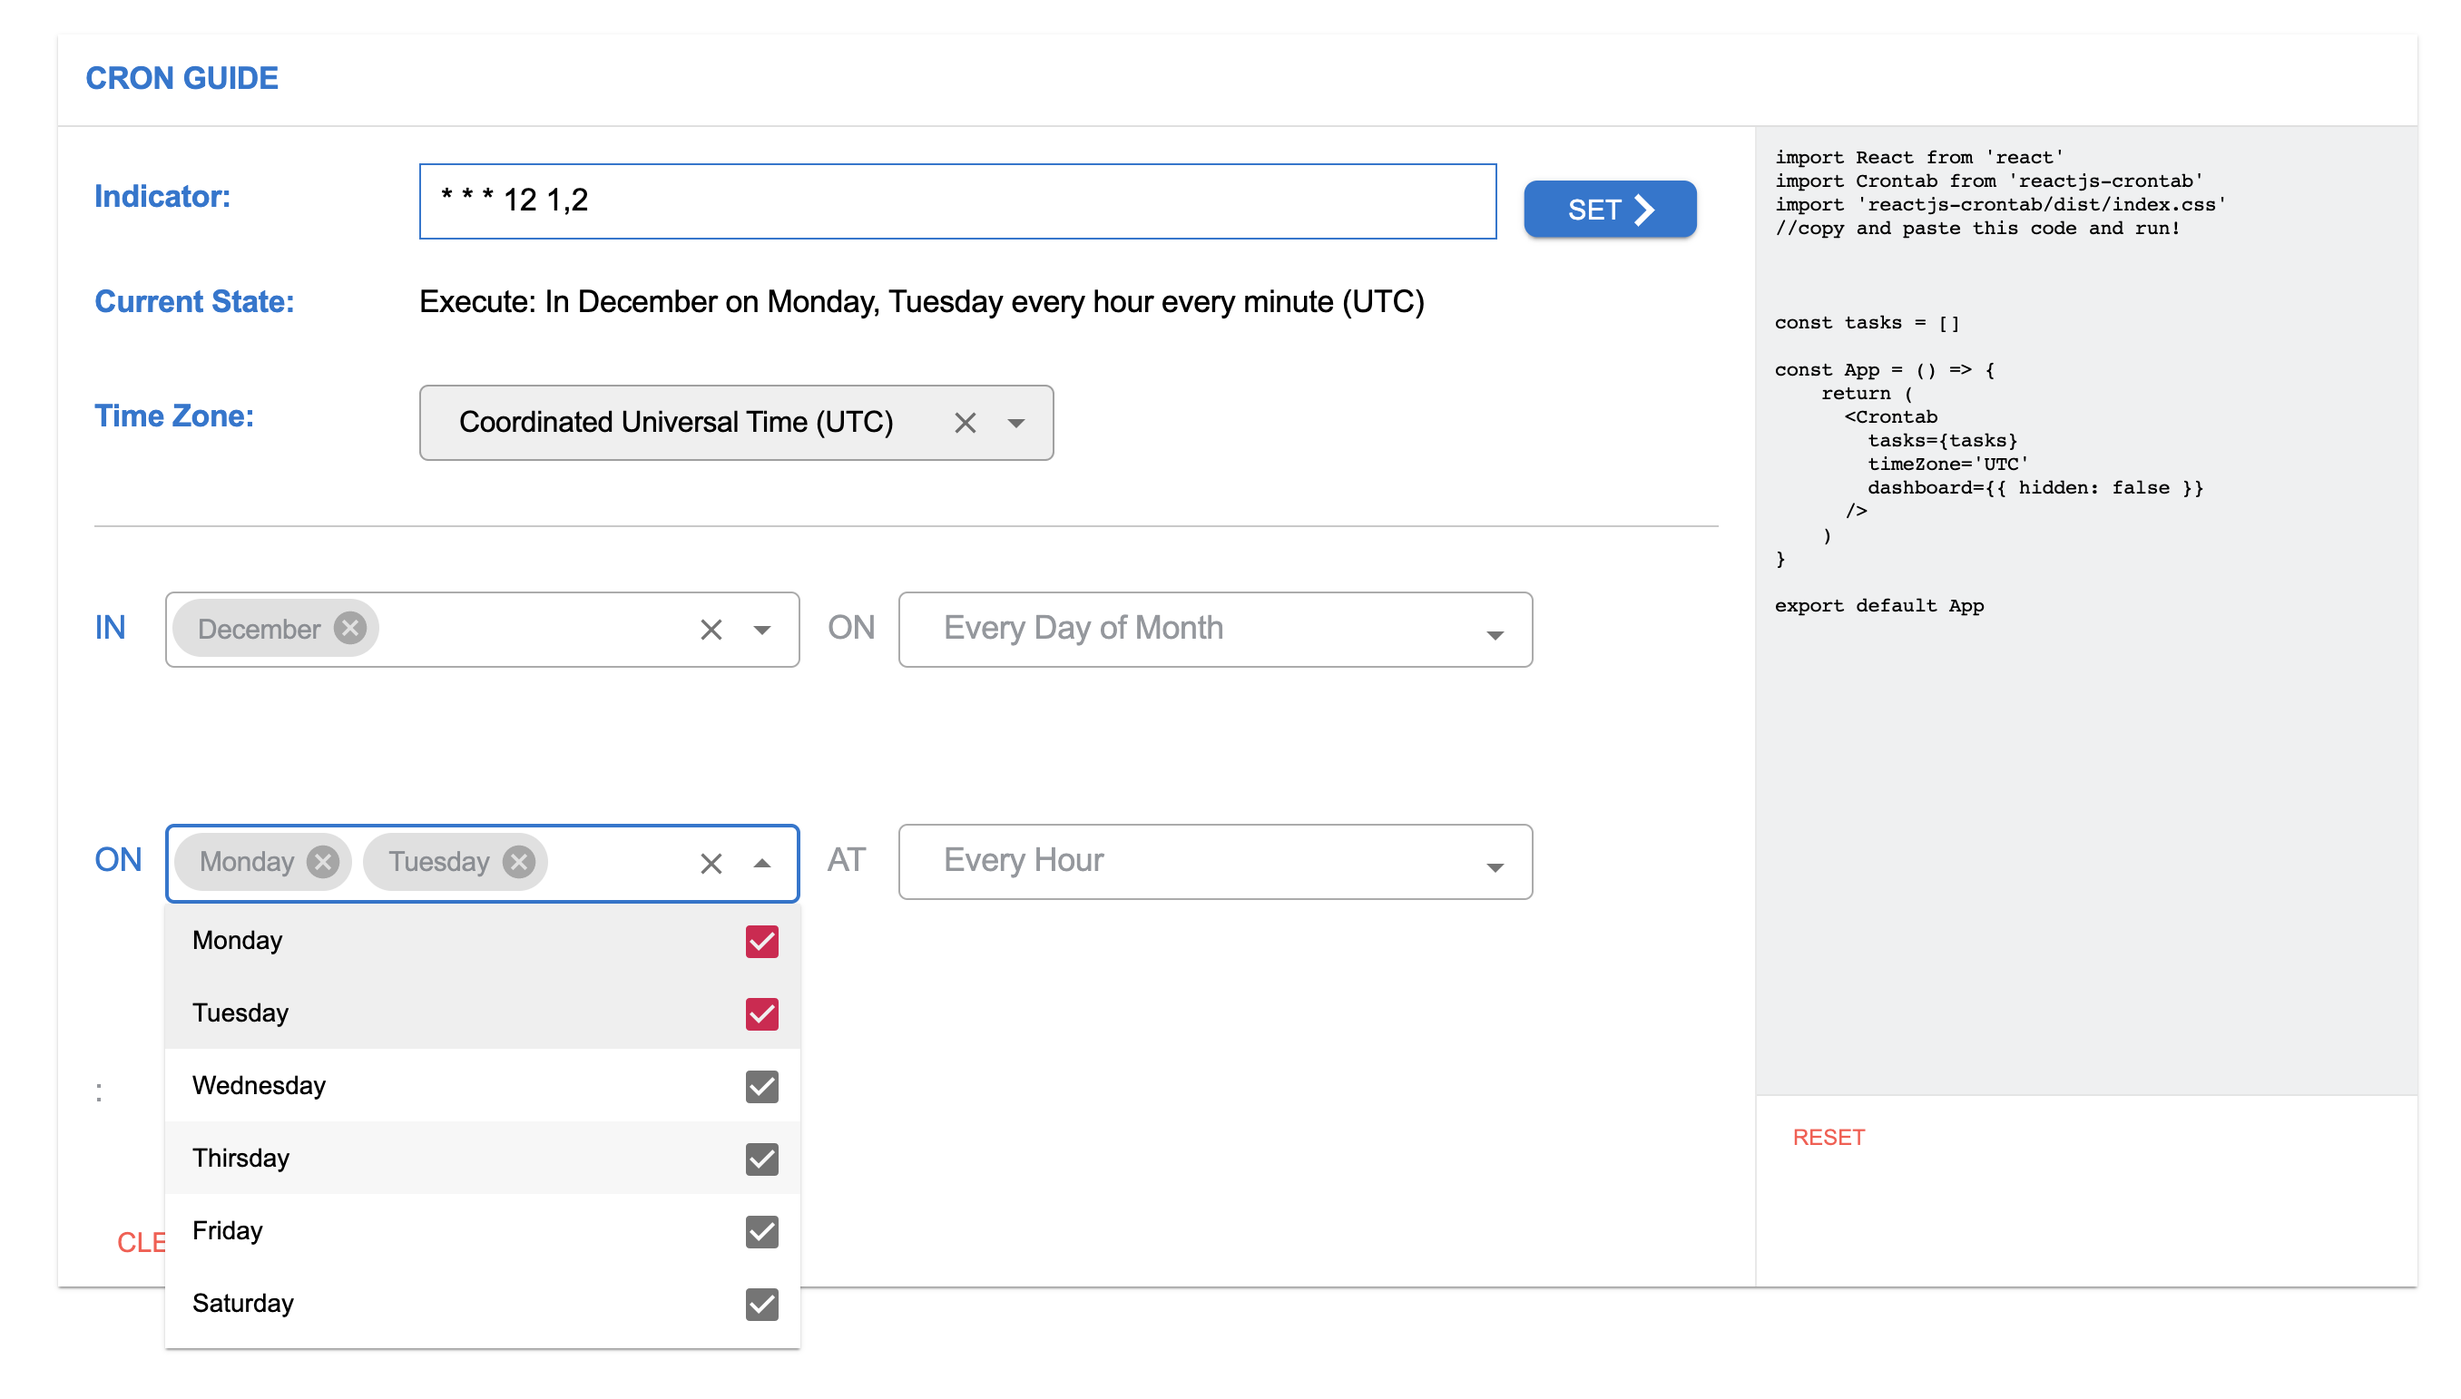
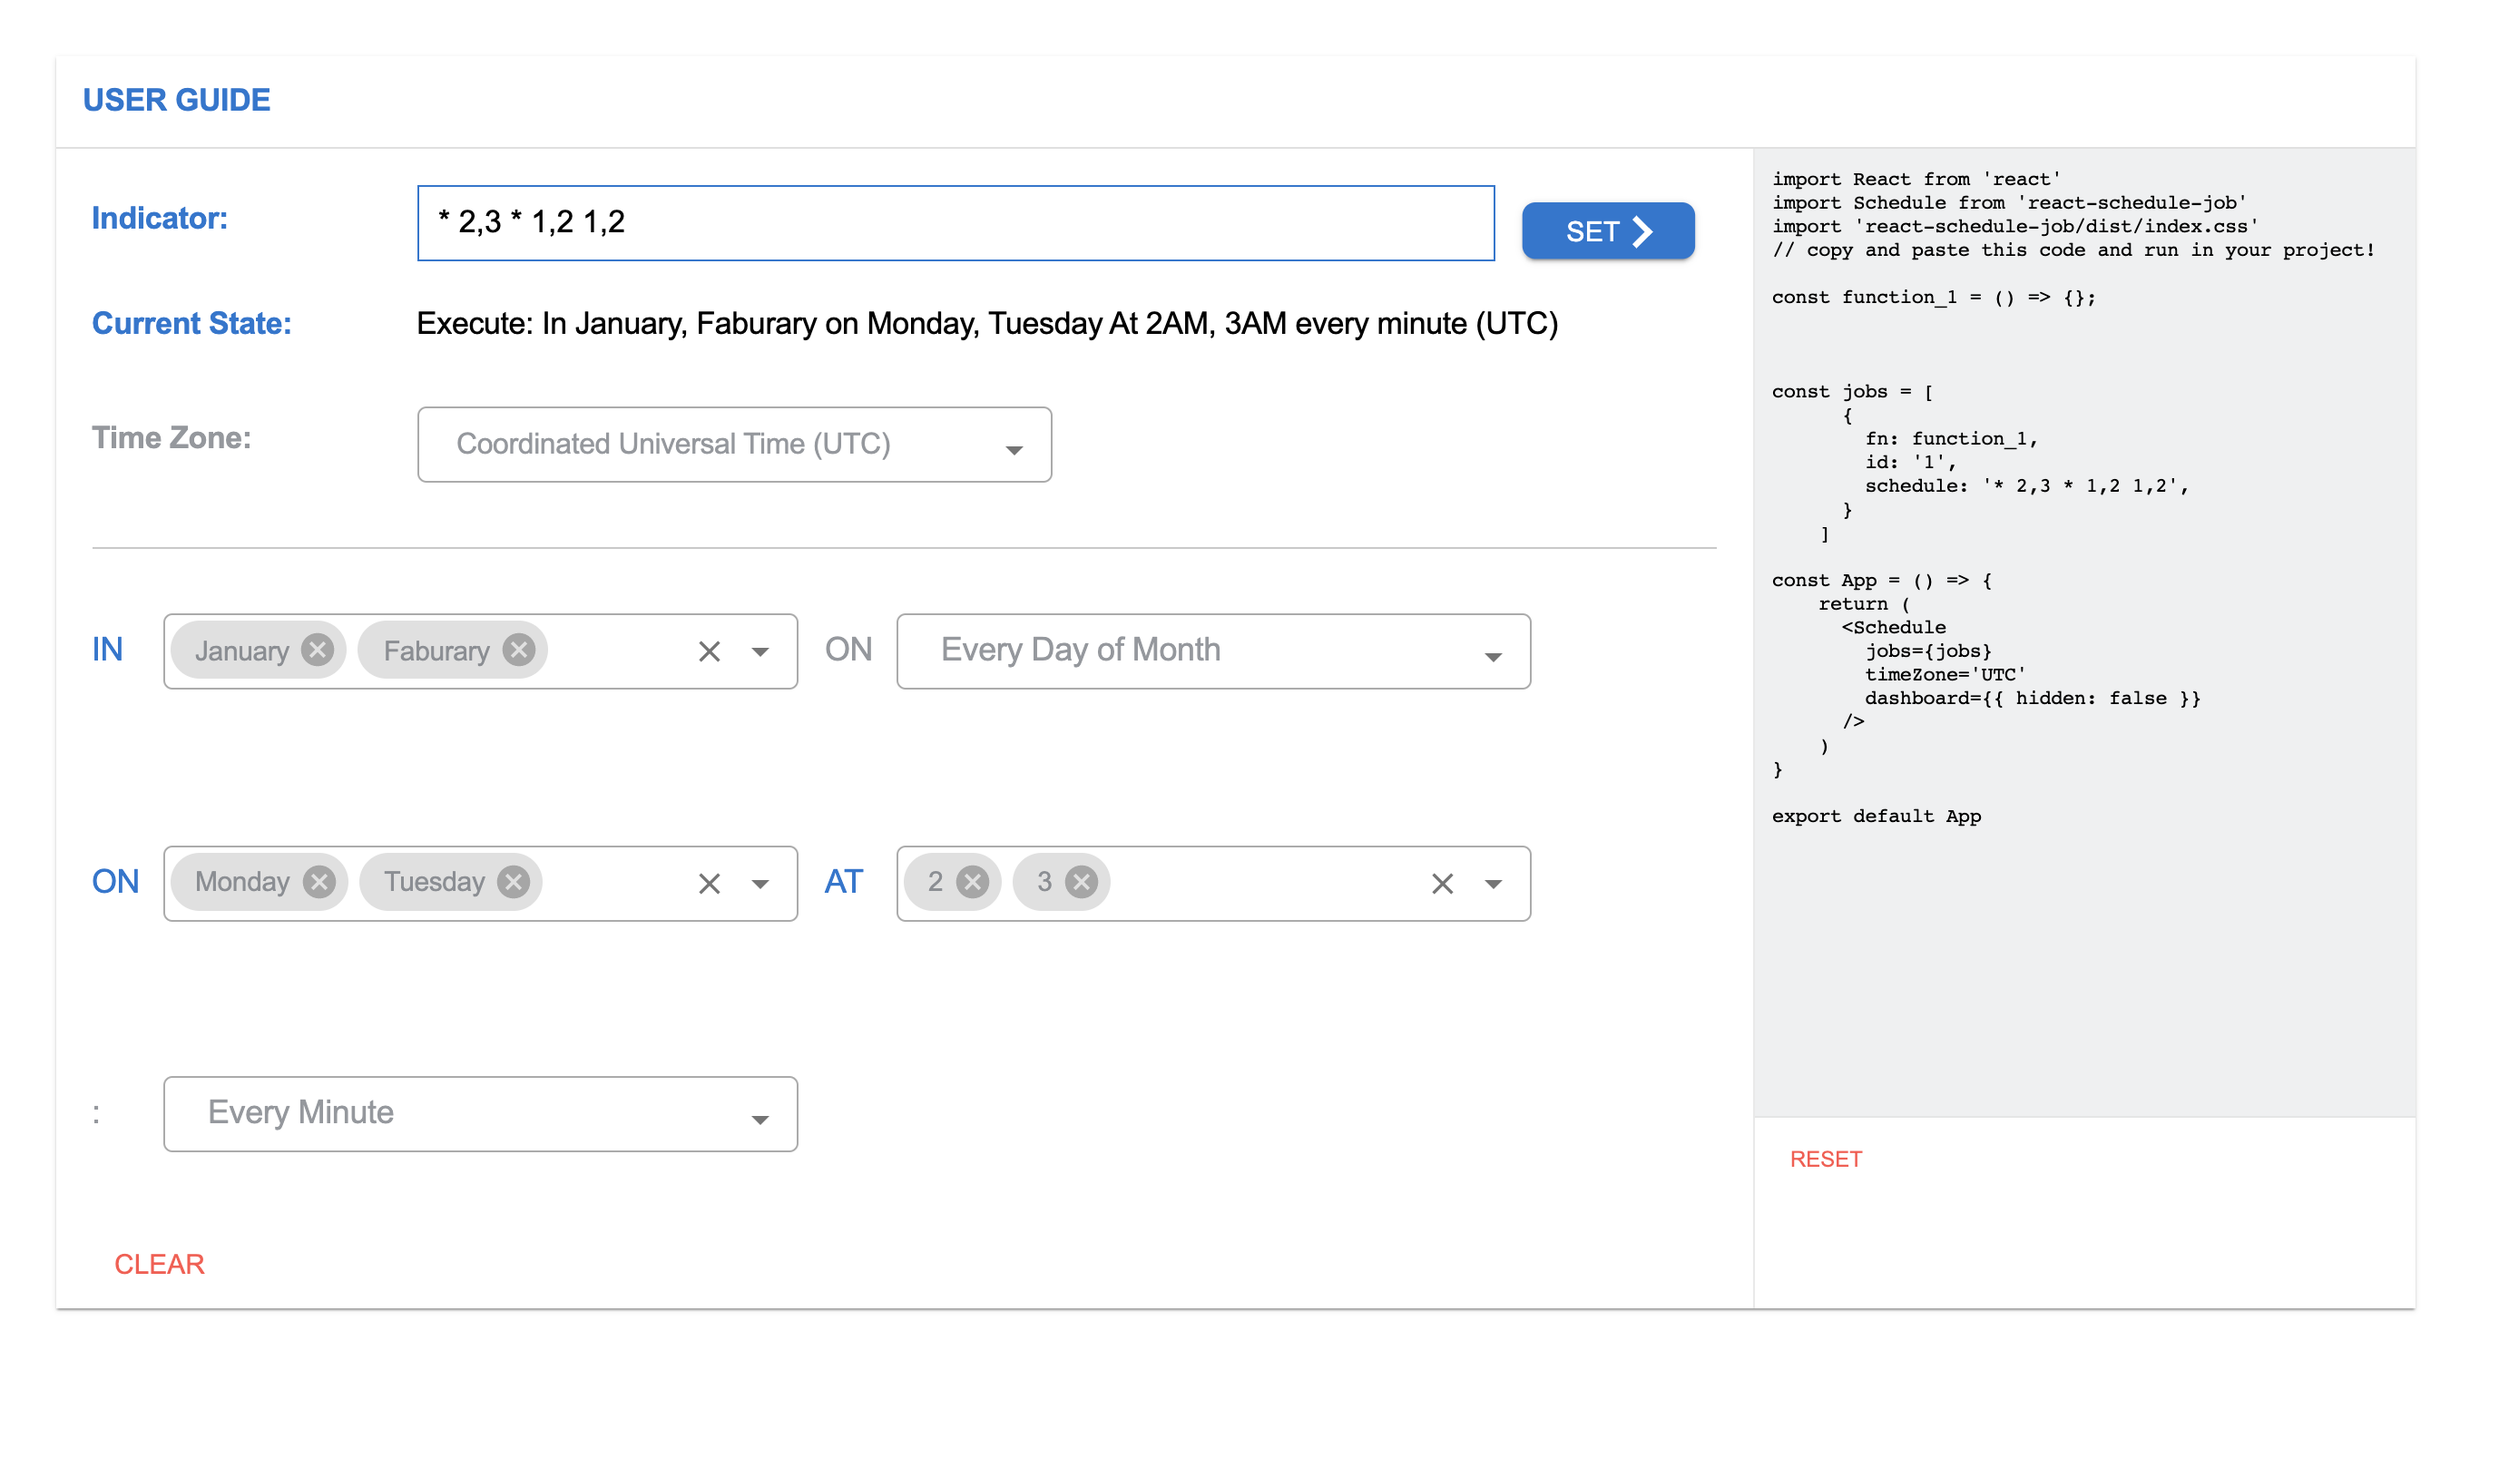
docs update

diff --git a/example/src/App.js b/example/src/App.js
@@ -1,45 +1,52 @@
 import React from 'react'
 import Schedule from 'react-schedule-job'
 import 'react-schedule-job/dist/index.css'
+//copy and paste this code and run!
+    
+const function_1 = () => {
+  console.log("called ! ")
+};
+  
+const function_2 = () => {
+  console.log("called ! ")
 
-const sayHello = () => {
-  console.log('Hello')
-}
+};
+  
+const function_3 = () => {
+  console.log("called ! 3")
 
-const RequestSomething = () => {
-  console.log('Api request has been sent')
-}
+};
+  
 
-// these are the functions which will run according to the schedule
-
+    
 const jobs = [
-  {
-    fn: sayHello,
-    id: '1',
-    schedule: '* * * * *',
-    // Execute every minutes
-    name: 'Say Hello'
-  },
-  {
-    fn: RequestSomething,
-    id: '3',
-    schedule: '* 16 * 11,12 *',
-    // Execute In November, December At 3PM and 7PM every minute
-    name: 'Request Something'
-  }
-]
-
+      {
+        fn: function_1,
+        id: '1',
+        schedule: '* * * * *',
+      }
+    ,
+      {
+        fn: function_2,
+        id: '2',
+        schedule: '* * * * *',
+      }
+    ,
+      {
+        fn: function_3,
+        id: '3',
+        schedule: '* * * 3,5 *',
+      }
+    ]
+    
 const App = () => {
-  return (
-    <Schedule
-      jobs={jobs}
-      timeZone='UTC'
-      // timezone is UTC timezone.
-      dashboard={{
-        hidden: false
-        // if true, dashboard is hidden
-      }}
-    />
-  )
+    return (
+      <Schedule 
+        jobs={jobs}
+        timeZone='UTC'
+        dashboard={{ hidden: false }}
+      />
+    )
 }
+    
 export default App

diff --git a/src/index.js b/src/index.js
@@ -30,7 +30,6 @@ Cron.propTypes = {
       id: PropTypes.string.isRequired,
       schedule: PropTypes.string.isRequired,
       name: PropTypes.string,
-      description: PropTypes.string
     })
   ),
   dashboard: PropTypes.shape({

diff --git a/README.md b/README.md
@@ -4,9 +4,9 @@ React Schedule Job is a simple cron-like job scheduler for Reactjs. This module 
 
 [![NPM](https://img.shields.io/npm/v/react-schedule-job.svg)](https://www.npmjs.com/package/react-schedule-job) [![JavaScript Style Guide](https://img.shields.io/badge/code_style-standard-brightgreen.svg)](https://standardjs.com)
 
-<!-- **User Guide** at [https://d180vcwahe2y6s.cloudfront.net/build/index.html](https://d180vcwahe2y6s.cloudfront.net/index.html)
+**User Guide** at [https://d3ulnom5ytgqb7.cloudfront.net/index.html](https://d3ulnom5ytgqb7.cloudfront.net/index.html)
 
-![Crontab Guide Demo](https://raw.githubusercontent.com/shawnscoding/reactjs-crontab/HEAD/assets/cronGuide.png) -->
+![Crontab Guide Demo](https://raw.githubusercontent.com/shawnscoding/reactjs-crontab/HEAD/assets/cronGuide.png)
 
 ## Getting Started
 
@@ -16,7 +16,7 @@ npm install --save react-schedule-job
 
 ## Usage 1
 
-To schedule component, this code would be useful
+To schedule component, this would be useful
 
 ```jsx
 import React from 'react'
@@ -76,7 +76,7 @@ Copying and pasting above code will render `<HelloMsg /> `
 
 ## Usage 2
 
-To schedule function, this code would be useful
+To schedule function, this would be useful
 
 ```jsx
 import React from 'react'
@@ -195,8 +195,7 @@ Schedule Props {
       fn: yourFn,
       id: '1',
       schedule: '* 11 18 10,13 *',
-      name: 'logUserOut',
-      description: 'Send API'
+      name: 'logUserOut'
     }
   ],
   timeZone: "UTC", "local" or "YOUR PREFERRED TIMEZONE",
@@ -214,8 +213,7 @@ Schedule.propTypes = {
       fn: PropTypes.func.isRequired,
       id: PropTypes.string.isRequired,
       schedule: PropTypes.string.isRequired,
-      name: PropTypes.string,
-      description: PropTypes.string
+      name: PropTypes.string
     })
   ),
   dashboard: PropTypes.shape({
@@ -236,7 +234,7 @@ Schedule.defaultProps = {
 
 ## Important note
 
-- Note that Schedule is triggered only once per minute. The seconds that is triggered is different everytime you run your reactjs app. It varies from 0s to 59s. This is because we don't schedule seconds. Thus, don't be surprised if it doesn't run as soon as the time condition met.
+- Note that Schedule component is active only once per minute. The seconds that this is active is different everytime you run your reactjs app. It varies from 0s to 59s. This is because we don't schedule seconds. Thus, don't be surprised if it doesn't run as soon as the time condition met.
 
 ## Supported browsers
 
